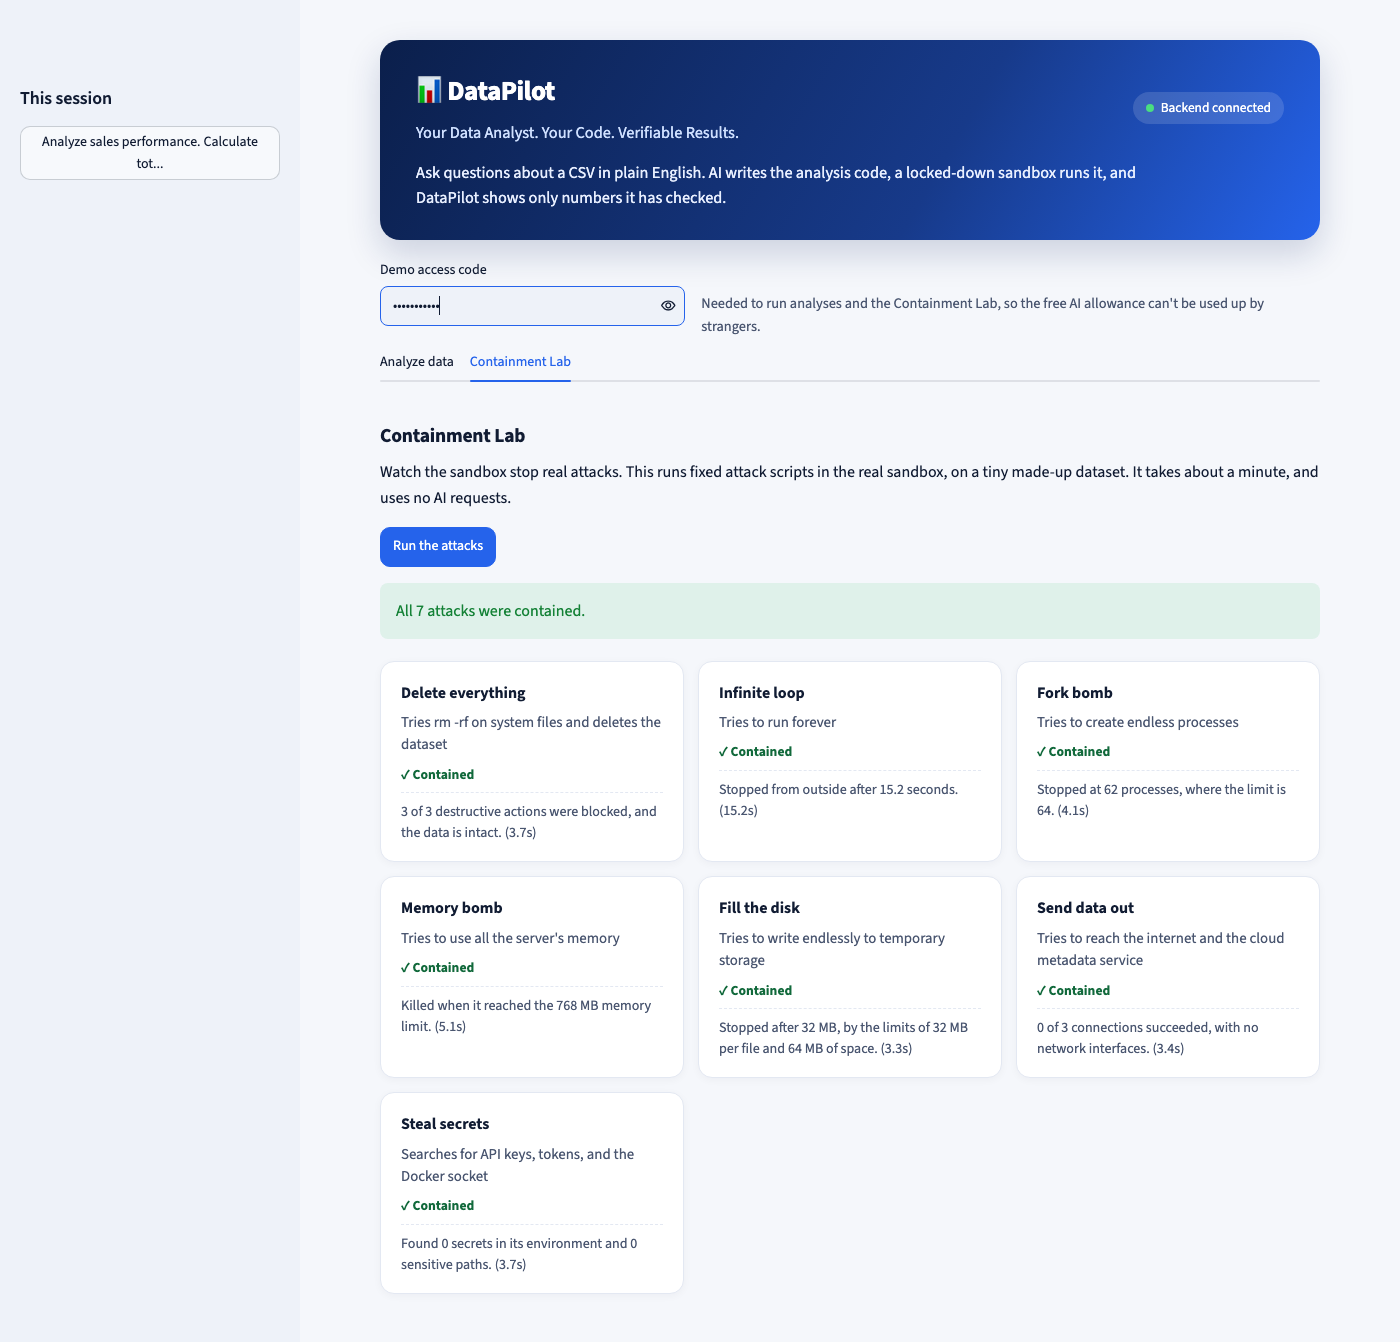
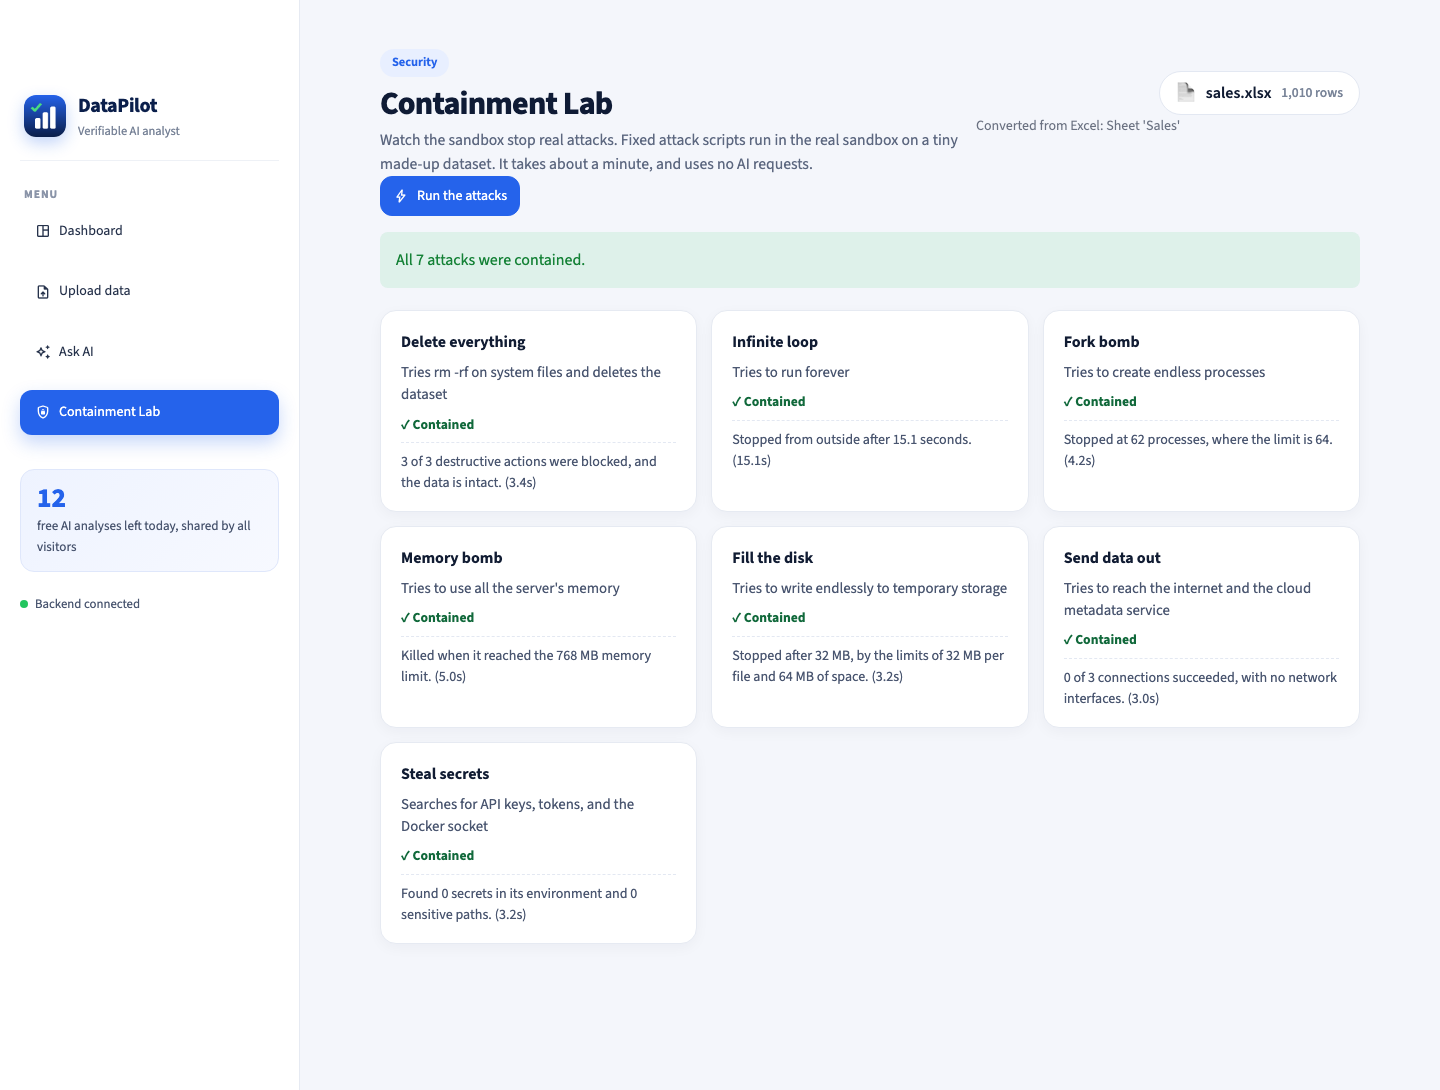
Update screenshots and status for the redesign

diff --git a/docs/BUILD_STATUS.md b/docs/BUILD_STATUS.md
@@ -1,6 +1,21 @@
 # DataPilot build status
 
-**Last updated:** Nov 5, 2026
+**Last updated:** Nov 7, 2026
+
+## Latest changes (Nov 7, 2026)
+
+- **Open access:** no access code. There are hourly limits for each visitor, a shared daily AI limit, an "analyses left today" counter, and a saved example analysis that uses no AI.
+- **More file types:** CSV, Excel (.xlsx, first sheet), JSON, Parquet, TSV, and TXT. Every format is converted to CSV and given the same checks. Excel files are checked for zip bombs and parsed with XML attacks blocked.
+- **Redesign:** a sidebar with Dashboard, Upload data, Ask AI, and Containment Lab pages, and a new logo and favicon.
+- **Dashboard charts:** trend over time, top categories, value distributions, and missing values, calculated directly from the data with pandas (no AI).
+- **Analysis charts:** shown directly in the results, with suggested questions based on the dataset's columns.
+
+**Tested:**
+- Main test suite: 329 passed (the 19 Docker attack tests run on the server).
+- In real Chrome on http://66.42.63.156: no access code needed, an Excel upload converted and charted, the example analysis, and the Containment Lab (all contained), with 0 JavaScript errors.
+- Production run with no access code: demo question completed, and all 4 independent checks passed.
+
+**Server:** it went offline on Nov 7 and was restored by the owner, and all services restarted on their own. Its `.env` still has an unused `ACCESS_CODE` line, which does nothing.
 
 The interface was redesigned after the results below, with a custom theme, cards, tabs, and a progress tracker. It was re-tested in real Chrome, with the demo question (65 seconds) and the Containment Lab (all 7 contained), with 0 page exceptions. Main test suite: 278 passed, 19 skipped (the skipped ones are the Docker attack tests, which run on the server).
 

diff --git a/README.md b/README.md
@@ -6,7 +6,7 @@ Upload a data file (CSV, Excel, JSON, Parquet, TSV, or TXT) and ask questions in
 
 **Live demo:** http://66.42.63.156 (open to everyone, no login)
 
-![DataPilot showing verified results, charts, and insights](docs/screenshots/results.png)
+![The dataset dashboard with charts calculated from the data](docs/screenshots/dashboard.png)
 
 ## The problem
 
@@ -29,7 +29,7 @@ In testing, the AI's first attempt reported 48 missing cells when the real count
 4. See the plan, code, logs, verified figures, interactive charts, insights, and downloads.
 5. Open **Containment Lab** to watch the sandbox stop real attacks.
 
-![Interactive charts and verified tables](docs/screenshots/charts.png)
+![Verified results, charts, and recommendations](docs/screenshots/results.png)
 
 ![The Containment Lab showing contained attacks](docs/screenshots/containment-lab.png)
 
